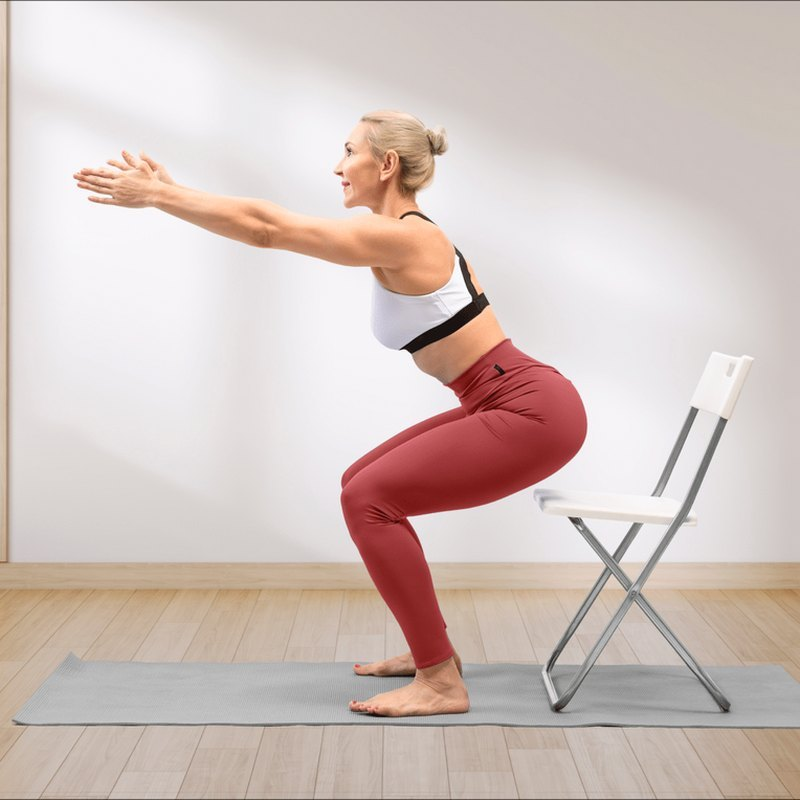
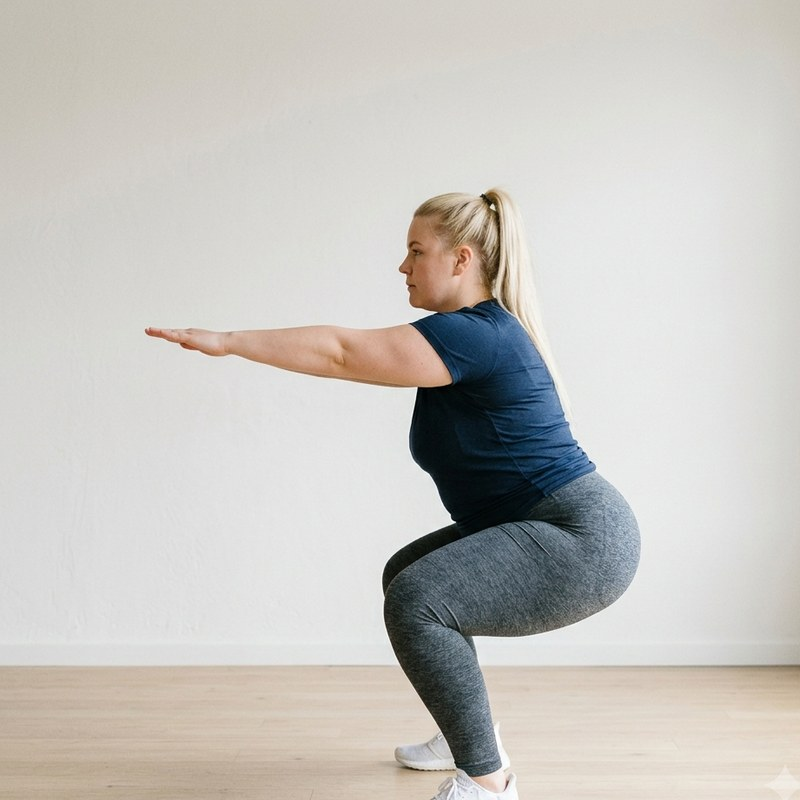
Add files via upload

diff --git a/guide.html b/guide.html
@@ -70,31 +70,11 @@ footer a{color:var(--accent);font-weight:800;text-decoration:none}
   <p><strong>La r&eacute;gularit&eacute; bat l'intensit&eacute;.</strong> Dix minutes chaque matin feront plus qu'une heure le dimanche.</p>
 </div>
 
-<nav class="toc" aria-label="Sommaire"><a class="toc-link" href="#fam-0"><span>&#129496;</span>Assis <em>5</em></a><a class="toc-link" href="#fam-1"><span>&#128564;</span>Allongé sur le dos <em>7</em></a><a class="toc-link" href="#fam-2"><span>&#128008;</span>À quatre pattes <em>5</em></a><a class="toc-link" href="#fam-3"><span>&#128013;</span>Sur le ventre <em>1</em></a><a class="toc-link" href="#fam-4"><span>&#129495;</span>Fente <em>2</em></a><a class="toc-link" href="#fam-5"><span>&#129485;</span>Debout <em>6</em></a></nav>
+<nav class="toc" aria-label="Sommaire"><a class="toc-link" href="#fam-0"><span>&#129496;</span>Assis <em>3</em></a><a class="toc-link" href="#fam-1"><span>&#128564;</span>Allongé sur le dos <em>7</em></a><a class="toc-link" href="#fam-2"><span>&#128008;</span>À quatre pattes <em>6</em></a><a class="toc-link" href="#fam-3"><span>&#128013;</span>Sur le ventre <em>1</em></a><a class="toc-link" href="#fam-4"><span>&#129495;</span>Fente <em>2</em></a><a class="toc-link" href="#fam-5"><span>&#129485;</span>Debout <em>7</em></a></nav>
 
 <section class="famille" id="fam-0"><h2><span aria-hidden="true">&#129496;</span>Assis</h2>
-<article class="ex" id="respiration">
-  <div class="ex-photo"><img src="exercise-1.jpg" alt="Respiration" loading="lazy"></div>
-  <div class="ex-body">
-    <h3>Respiration</h3>
-    
-    <p class="why">Fait passer le corps du sommeil à l'éveil sans brusquerie, et pose l'attention sur la séance qui commence.</p>
-    <ol class="steps"><li>Assieds-toi confortablement, dos long, épaules relâchées.</li><li>Inspire par le nez en comptant jusqu'à 4.</li><li>Expire par la bouche en comptant jusqu'à 6, sans forcer la fin du souffle.</li></ol>
-    <p class="tip"><span>Le conseil</span>L'expiration plus longue que l'inspiration, c'est tout le secret : c'est elle qui apaise.</p>
-    <p class="warn"><span>À éviter</span>Gonfler les épaules à l'inspiration. Cherche plutôt à sentir les côtes s'ouvrir sur les côtés.</p>
-  </div>
-</article>
-<article class="ex" id="papillon-mur">
-  <div class="ex-photo"><img src="exercise-12.jpg" alt="Étirement du dos au mur" loading="lazy"></div>
-  <div class="ex-body">
-    <h3>Étirement du dos au mur</h3>
-    
-    <p class="why">Allonge tout le dos et ouvre les épaules, avec le mur comme guide : impossible de tricher sur l'alignement.</p>
-    <ol class="steps"><li>Mets-toi à genoux face au mur, mains posées haut sur le mur.</li><li>Recule les hanches vers les talons en gardant les mains en place.</li><li>Laisse la tête entre les bras et respire dans le haut du dos.</li></ol>
-    <p class="tip"><span>Le conseil</span>Plus tu recules les hanches, plus l'étirement gagne les épaules et les côtés du dos. Avance ou recule les genoux pour trouver ta juste distance.</p>
-    <p class="warn"><span>À éviter</span>Creuser le bas du dos pour descendre plus bas. Garde le dos long, en une seule ligne des mains aux hanches.</p>
-  </div>
-</article>
+
+
 <article class="ex" id="flexion-assise">
   <div class="ex-photo"><img src="exercise-17.jpg" alt="Flexion avant assise" loading="lazy"></div>
   <div class="ex-body">
@@ -204,7 +184,17 @@ footer a{color:var(--accent);font-weight:800;text-decoration:none}
     <p class="tip"><span>Le conseil</span>Le bas du dos doit rester en contact avec le sol. Dès qu'il se décolle, réduis l'amplitude.</p>
     <p class="warn"><span>À éviter</span>Aller vite. Ici, la lenteur est l'exercice — un aller-retour peut durer cinq secondes.</p>
   </div>
-</article></section><section class="famille" id="fam-2"><h2><span aria-hidden="true">&#128008;</span>À quatre pattes</h2>
+</article></section><section class="famille" id="fam-2"><h2><span aria-hidden="true">&#128008;</span>À quatre pattes</h2><article class="ex" id="papillon-mur">
+  <div class="ex-photo"><img src="exercise-12.jpg" alt="Étirement du dos au mur" loading="lazy"></div>
+  <div class="ex-body">
+    <h3>Étirement du dos au mur</h3>
+    
+    <p class="why">Allonge tout le dos et ouvre les épaules, avec le mur comme guide : impossible de tricher sur l'alignement.</p>
+    <ol class="steps"><li>Mets-toi à genoux face au mur, mains posées haut sur le mur.</li><li>Recule les hanches vers les talons en gardant les mains en place.</li><li>Laisse la tête entre les bras et respire dans le haut du dos.</li></ol>
+    <p class="tip"><span>Le conseil</span>Plus tu recules les hanches, plus l'étirement gagne les épaules et les côtés du dos. Avance ou recule les genoux pour trouver ta juste distance.</p>
+    <p class="warn"><span>À éviter</span>Creuser le bas du dos pour descendre plus bas. Garde le dos long, en une seule ligne des mains aux hanches.</p>
+  </div>
+</article>
 <article class="ex" id="chat-vache">
   <div class="ex-photo"><img src="exercise-3.jpg" alt="Chat / Vache" loading="lazy"></div>
   <div class="ex-body">
@@ -292,7 +282,17 @@ footer a{color:var(--accent);font-weight:800;text-decoration:none}
     <p class="tip"><span>Le conseil</span>Pense « grandir » plutôt que « descendre » : c'est l'allongement qui fait tout le bien.</p>
     <p class="warn"><span>À éviter</span>Cambrer le bas du dos en levant les bras. Engage légèrement le ventre pour rester droit.</p>
   </div>
-</article></section><section class="famille" id="fam-5"><h2><span aria-hidden="true">&#129485;</span>Debout</h2>
+</article></section><section class="famille" id="fam-5"><h2><span aria-hidden="true">&#129485;</span>Debout</h2><article class="ex" id="respiration">
+  <div class="ex-photo"><img src="exercise-1.jpg" alt="Respiration" loading="lazy"></div>
+  <div class="ex-body">
+    <h3>Respiration</h3>
+    
+    <p class="why">Fait passer le corps du sommeil à l'éveil sans brusquerie, et pose l'attention sur la séance qui commence.</p>
+    <ol class="steps"><li>Debout, pieds ancrés, mains jointes devant la poitrine.</li><li>Inspire par le nez en comptant jusqu'à 4.</li><li>Expire par la bouche en comptant jusqu'à 6, sans forcer la fin du souffle.</li></ol>
+    <p class="tip"><span>Le conseil</span>L'expiration plus longue que l'inspiration, c'est tout le secret : c'est elle qui apaise.</p>
+    <p class="warn"><span>À éviter</span>Gonfler les épaules à l'inspiration. Cherche plutôt à sentir les côtes s'ouvrir sur les côtés.</p>
+  </div>
+</article>
 <article class="ex" id="epaules">
   <div class="ex-photo"><img src="exercise-8.jpg" alt="Mobilité des épaules" loading="lazy"></div>
   <div class="ex-body">
@@ -316,13 +316,13 @@ footer a{color:var(--accent);font-weight:800;text-decoration:none}
   </div>
 </article>
 <article class="ex" id="squat-chaise">
-  <div class="ex-photo"><img src="exercise-10.jpg" alt="Squat sur chaise" loading="lazy"></div>
+  <div class="ex-photo"><img src="exercise-10.jpg" alt="Squat" loading="lazy"></div>
   <div class="ex-body">
-    <h3>Squat sur chaise</h3>
+    <h3>Squat</h3>
     
     <p class="why">Réveille les cuisses et les fessiers, et entretient le geste du quotidien : s'asseoir et se relever.</p>
-    <ol class="steps"><li>Debout devant une chaise, pieds largeur de hanches, bras tendus devant.</li><li>Descends lentement jusqu'à effleurer l'assise.</li><li>Remonte en poussant dans les talons.</li></ol>
-    <p class="tip"><span>Le conseil</span>La chaise n'est pas un siège, c'est un repère : effleure sans t'asseoir.</p>
+    <ol class="steps"><li>Debout, pieds à la largeur des hanches, bras tendus devant toi.</li><li>Pousse les hanches vers l'arrière et descends lentement.</li><li>Remonte en poussant dans les talons.</li></ol>
+    <p class="tip"><span>Le conseil</span>Place une chaise derrière toi et descends jusqu'à effleurer l'assise : tu as un repère de profondeur, et un filet si les jambes flanchent.</p>
     <p class="warn"><span>À éviter</span>Laisser les genoux partir vers l'intérieur. Garde-les dans l'axe des pieds.</p>
   </div>
 </article>

diff --git a/index.html b/index.html
@@ -170,7 +170,7 @@ input[type=range]::-webkit-slider-thumb{-webkit-appearance:none;appearance:none;
 </head>
 <body>
 <div id="app">
-<section class="screen active" id="screen-home" aria-label="Accueil"><div class="home-content"><div class="home-logo" aria-hidden="true"><svg viewBox="0 0 80 80" fill="none"><circle cx="40" cy="40" r="18" fill="var(--accent)" opacity="0.15"/><circle cx="40" cy="40" r="12" fill="var(--accent)"/><line x1="40" y1="6" x2="40" y2="18" stroke="var(--accent)" stroke-width="3" stroke-linecap="round"/><line x1="40" y1="62" x2="40" y2="74" stroke="var(--accent)" stroke-width="3" stroke-linecap="round"/><line x1="6" y1="40" x2="18" y2="40" stroke="var(--accent)" stroke-width="3" stroke-linecap="round"/><line x1="62" y1="40" x2="74" y2="40" stroke="var(--accent)" stroke-width="3" stroke-linecap="round"/><line x1="16.4" y1="16.4" x2="24.7" y2="24.7" stroke="var(--accent)" stroke-width="3" stroke-linecap="round"/><line x1="55.3" y1="55.3" x2="63.6" y2="63.6" stroke="var(--accent)" stroke-width="3" stroke-linecap="round"/><line x1="63.6" y1="16.4" x2="55.3" y2="24.7" stroke="var(--accent)" stroke-width="3" stroke-linecap="round"/><line x1="24.7" y1="55.3" x2="16.4" y2="63.6" stroke="var(--accent)" stroke-width="3" stroke-linecap="round"/></svg></div><h1 class="home-title">Morning Ninja</h1><p class="home-subtitle">Quelques minutes de mobilité pour bien commencer la journée.</p><div class="home-streak" id="home-streak" aria-live="polite"></div><div class="home-week" id="home-week" aria-label="Cette semaine"></div><button class="btn-primary" id="btn-start" aria-label="Commencer la routine">C'est parti</button><p class="home-version">v5.6</p></div></section>
+<section class="screen active" id="screen-home" aria-label="Accueil"><div class="home-content"><div class="home-logo" aria-hidden="true"><svg viewBox="0 0 80 80" fill="none"><circle cx="40" cy="40" r="18" fill="var(--accent)" opacity="0.15"/><circle cx="40" cy="40" r="12" fill="var(--accent)"/><line x1="40" y1="6" x2="40" y2="18" stroke="var(--accent)" stroke-width="3" stroke-linecap="round"/><line x1="40" y1="62" x2="40" y2="74" stroke="var(--accent)" stroke-width="3" stroke-linecap="round"/><line x1="6" y1="40" x2="18" y2="40" stroke="var(--accent)" stroke-width="3" stroke-linecap="round"/><line x1="62" y1="40" x2="74" y2="40" stroke="var(--accent)" stroke-width="3" stroke-linecap="round"/><line x1="16.4" y1="16.4" x2="24.7" y2="24.7" stroke="var(--accent)" stroke-width="3" stroke-linecap="round"/><line x1="55.3" y1="55.3" x2="63.6" y2="63.6" stroke="var(--accent)" stroke-width="3" stroke-linecap="round"/><line x1="63.6" y1="16.4" x2="55.3" y2="24.7" stroke="var(--accent)" stroke-width="3" stroke-linecap="round"/><line x1="24.7" y1="55.3" x2="16.4" y2="63.6" stroke="var(--accent)" stroke-width="3" stroke-linecap="round"/></svg></div><h1 class="home-title">Morning Ninja</h1><p class="home-subtitle">Quelques minutes de mobilité pour bien commencer la journée.</p><div class="home-streak" id="home-streak" aria-live="polite"></div><div class="home-week" id="home-week" aria-label="Cette semaine"></div><button class="btn-primary" id="btn-start" aria-label="Commencer la routine">C'est parti</button><p class="home-version">v5.7</p></div></section>
 <section class="screen" id="screen-ready" aria-label="Prêt"><div class="ready-content"><div class="ready-icon" aria-hidden="true">&#128266;</div><h2 class="ready-title">Prêt ?</h2><p class="ready-text">Cliquez sur le bouton pour activer le son.<br>Vous devez entendre un petit "Ding".</p><button class="btn-primary" id="btn-activate-sound">Activer le son</button><p class="ready-ok" id="ready-ok">&#10004;&#65039; Son activé !</p><p class="reminder"><span aria-hidden="true">&#8986;</span>Pense &agrave; d&eacute;marrer l'activit&eacute; &laquo;&nbsp;Yoga&nbsp;&raquo; sur ta Garmin.</p></div></section>
 <section class="screen" id="screen-go" aria-label="Go"><div class="go-content"><div class="go-text">GO</div></div></section>
 <section class="screen" id="screen-countdown" aria-label="Compte à rebours"><div id="countdown-display" aria-live="assertive"></div></section>
@@ -187,7 +187,7 @@ input[type=range]::-webkit-slider-thumb{-webkit-appearance:none;appearance:none;
 (function(){'use strict';
 
 var CATALOG=[
-{id:"respiration",img:"exercise-1.jpg",name:"Respiration",voiceName:"Respiration",duration:60,voiceIntro:"Respiration profonde. Inspire par le nez, expire par la bouche.",instruction:"Inspire 4 secondes, expire 6 secondes. Détends les épaules et le visage."},
+{id:"respiration",img:"exercise-1.jpg",name:"Respiration",voiceName:"Respiration",duration:60,voiceIntro:"Respiration profonde. Debout, mains jointes devant la poitrine.",instruction:"Inspire par le nez sur quatre temps, expire par la bouche sur six. Détends les épaules et le visage."},
 {id:"bassin",img:"exercise-2.jpg",name:"Mobilisation du bassin",voiceName:"Mobilisation du bassin",duration:60,voiceIntro:"Mobilisation douce du bassin. Couché sur le dos, genoux fléchis, pieds au sol.",instruction:"Bascule le bassin lentement : creuse très légèrement, puis colle le bas du dos au sol."},
 {id:"chat-vache",img:"exercise-3.jpg",name:"Chat / Vache",voiceName:"Le chat, puis la vache",duration:60,voiceIntro:"Le chat, puis la vache. À quatre pattes, dos neutre au départ.",instruction:"Arrondis le dos en soufflant, puis relâche très doucement sans cambrer."},
 {id:"bird-dog",img:"exercise-4.jpg",name:"Bird dog lent",voiceName:"Beurd dog",midCue:"Change de côté.",duration:60,voiceIntro:"Beurd dog. À quatre pattes, garde le dos bien neutre.",instruction:"Tends le bras droit et la jambe gauche lentement. Pas de rotation du bassin."},
@@ -196,7 +196,7 @@ var CATALOG=[
 {id:"pont-fessier",img:"exercise-7.jpg",name:"Pont fessier",voiceName:"Pont fessier",duration:60,voiceIntro:"Pont fessier. Couché sur le dos, genoux fléchis, pieds au sol.",instruction:"Soulève les hanches doucement en contractant les fessiers. Pas de cambrure."},
 {id:"epaules",img:"exercise-8.jpg",name:"Mobilité des épaules",voiceName:"Mobilité des épaules",midCue:"Change de sens.",duration:60,voiceIntro:"Mobilité des épaules. Debout, cercles lents avec les bras.",instruction:"Fais des cercles lents et amples. Alterne le sens. Détends le cou."},
 {id:"etirements",img:"exercise-9.jpg",name:"Étirements doux",voiceName:"Étirements doux",duration:60,voiceIntro:"Étirements doux. Debout, penche-toi lentement, vers l'avant.",instruction:"Laisse la tête et les bras pendre. Ne force pas. Respire dans l'étirement."},
-{id:"squat-chaise",img:"exercise-10.jpg",name:"Squat sur chaise",voiceName:"Squat sur chaise",duration:60,voiceIntro:"Squat sur chaise. Debout devant une chaise, pieds à la largeur des hanches.",instruction:"Descends lentement jusqu'à effleurer l'assise, puis remonte. Dos droit, poids sur les talons."},
+{id:"squat-chaise",img:"exercise-10.jpg",name:"Squat",voiceName:"Squat",duration:60,voiceIntro:"Squat. Debout, pieds à la largeur des hanches, bras tendus devant toi.",instruction:"Descends lentement en poussant les hanches vers l'arrière, puis remonte. Dos droit, poids sur les talons."},
 {id:"fente-bras",img:"exercise-11.jpg",name:"Fente bras levés",voiceName:"Fente bras levés",midCue:"Change de côté.",duration:60,voiceIntro:"Fente bras levés. Une jambe devant, bras tendus vers le haut.",instruction:"Grandis-toi en levant les bras, bassin bien engagé. Respire, sans cambrer le bas du dos."},
 {id:"papillon-mur",img:"exercise-12.jpg",name:"Étirement du dos au mur",voiceName:"Étirement du dos au mur",duration:60,voiceIntro:"Étirement du dos au mur. À genoux face au mur, mains posées haut.",instruction:"Recule les hanches vers les talons en gardant les mains hautes. Le dos s'allonge, les épaules s'ouvrent."},
 {id:"genoux-poitrine",img:"exercise-13.jpg",name:"Genoux à la poitrine",voiceName:"Genoux à la poitrine",duration:60,voiceIntro:"Genoux à la poitrine. Couché sur le dos.",instruction:"Ramène les deux genoux contre toi et entoure-les de tes bras. Relâche le bas du dos, respire."},

diff --git a/sw.js b/sw.js
@@ -3,7 +3,7 @@
    (pour ne JAMAIS servir une vieille version quand on est en ligne),
    le cache ne sert que de secours hors connexion. */
 
-var CACHE_NAME = "morning-ninja-v5.6";
+var CACHE_NAME = "morning-ninja-v5.7";
 
 var PRECACHE = [
   "./",
